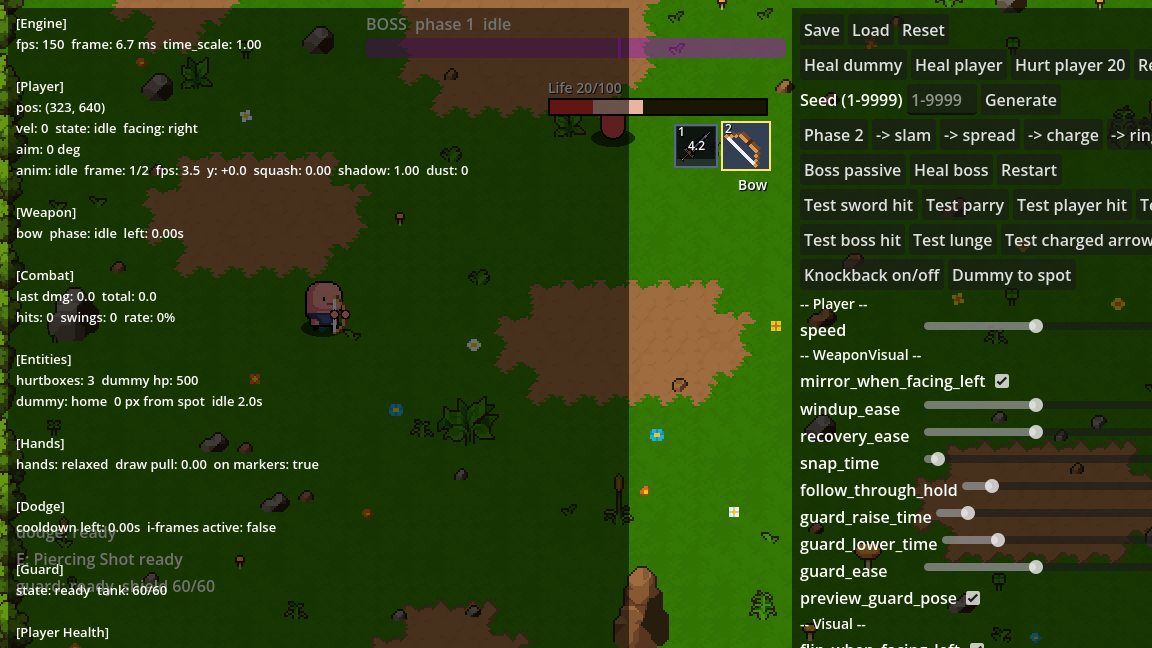
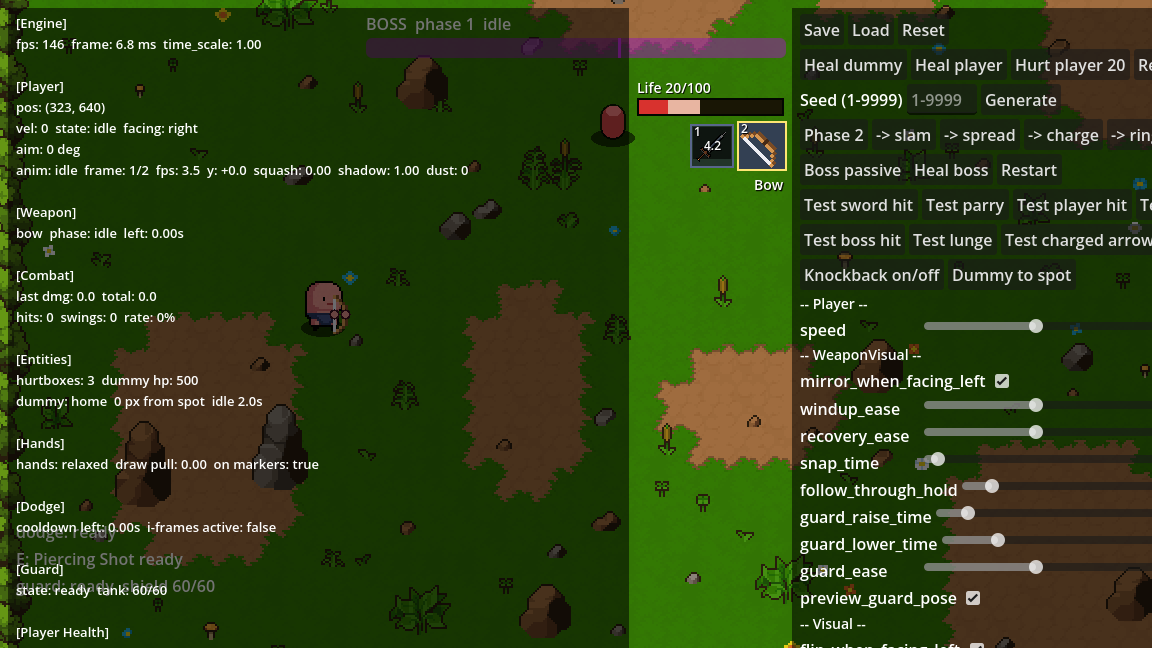
fix(ui): HUD live tuning, int pairs in F3, weapon replace, own layer above F3

diff --git a/docs/decision/0024-hud-top-right.md b/docs/decision/0024-hud-top-right.md
@@ -8,12 +8,14 @@ bar in the top-right corner. Items will come later, so the hotbar must work for 
 - New nodes in `scripts/ui/`: `HealthBar` (text line + bar + "recent damage" trail), `Hotbar`, `HotbarSlot`.
   They only read `Health` and `Loadout` (polling + the swap signals). Combat never calls them.
 - Looks are slots: `frame_style` / `selected_style` (any StyleBox) and `fill_texture`. Sizes, colours, trail
-  delay/speed, low-HP pulse are `@export` and show in F3 (sections `HUD`, `HealthBar`, `Hotbar`).
+  delay/speed, low-HP pulse are `@export`. Number and bool exports show in F3 (sections `HUD`, `HealthBar`,
+  `Hotbar`) and apply live. Colors and StyleBox/Texture slots are Inspector-only (F3 shows only float/int/bool).
 - `WeaponData` gets optional `icon` and `display_name`. No icon: the slot shows the `Art` sprite of the weapon's
   model scene. No name: the file name, prettified ("iron_sword" -> "Iron Sword"). A real icon is a data swap.
 - The old bottom-left life bar and the "weapon / swap" text line are removed. Dodge / E / guard text stays for now.
 - F3 overlap: the F3 tuning panel is 352 px wide on the right edge, full height. While F3 is open the HUD block
-  moves left 368 px and down 64 px (below the boss bar). F3 itself is untouched. New F3 button: `Hurt player 20`.
+  moves into the gap between the two F3 panels (widths read from the panels), down 64 px (below the boss bar),
+  and the life bar gets narrower if the gap is small. The block lives on its own CanvasLayer above F3. F3 is untouched. New F3 button: `Hurt player 20`.
 
 ## Why
 Example: when you take a hit, the bar drops at once, but a light chunk stays and drains a moment later. You see
@@ -21,6 +23,6 @@ how much the hit took. Terraria players know this layout, so no explanation is n
 Keeping HUD code apart from combat means a drawn frame or icon later touches zero combat code.
 
 ## Consequences
-- `HUD` must sit before `TuningPanel` in `arena.tscn` (F3 reads the HUD's child nodes when it starts).
+- F3 waits for the HUD to be ready, so the node order in `arena.tscn` does not matter.
 - The fallback icon is the raw sprite turned 45 degrees: not sharp pixel art. Real icons replace it.
 - Shield is not shown here (the guard bar next to the player owns it, decision 0015).

diff --git a/docs/wiki/prototype-v0.md b/docs/wiki/prototype-v0.md
@@ -338,7 +338,7 @@ together — an exception to "no stacking unverified slices".
 5. **Tune** — adjust only the numbers in §2 until it feels right. No new features.
 
 **UI slice U1 — top-right HUD: life bar + hotbar (2026-10-04).** User: Terraria-like health bar and item change, top right ([0024](../decision/0024-hud-top-right.md)).
-   Log U1: built by Sonnet 5.5 · judge: pending · user: pending.
+   Log U1: built by Sonnet 5.5 · judge Opus: 4 bugs (live tuning ignored, Vector2i/colors not in F3, replaced weapon kept old icon, F3 panel drew over HUD) — fixed · user: pending.
 
 **Feel slice F2 — knockback, recoil, swing step, sparks, numbers (2026-10-04).** User: real knockback on
 enemies, boss only jolts visually.
